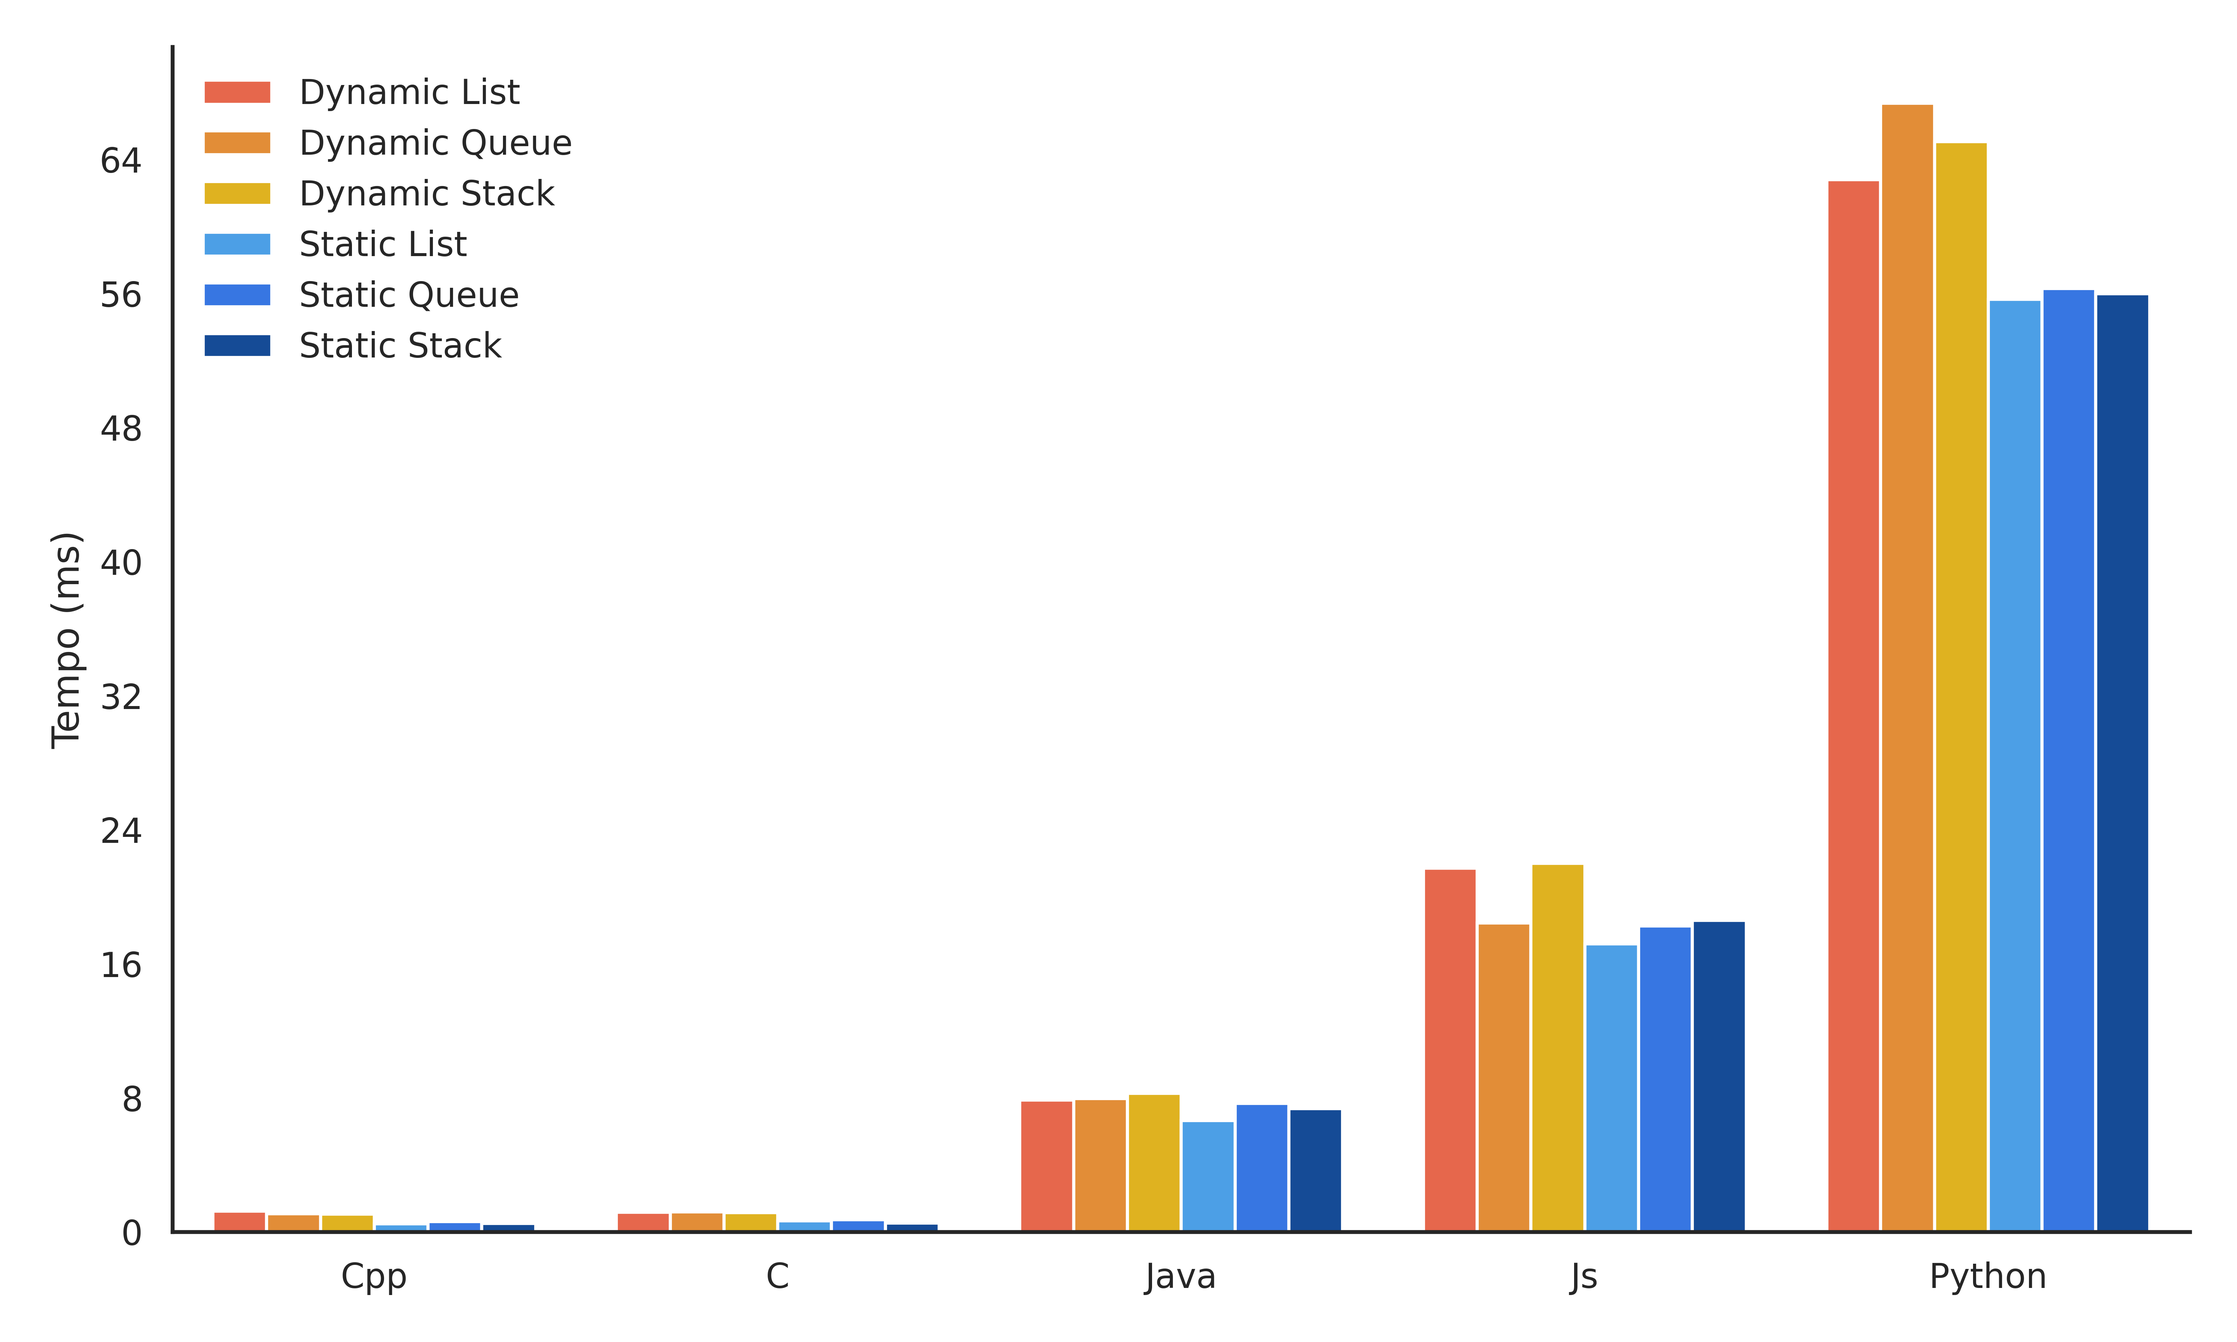
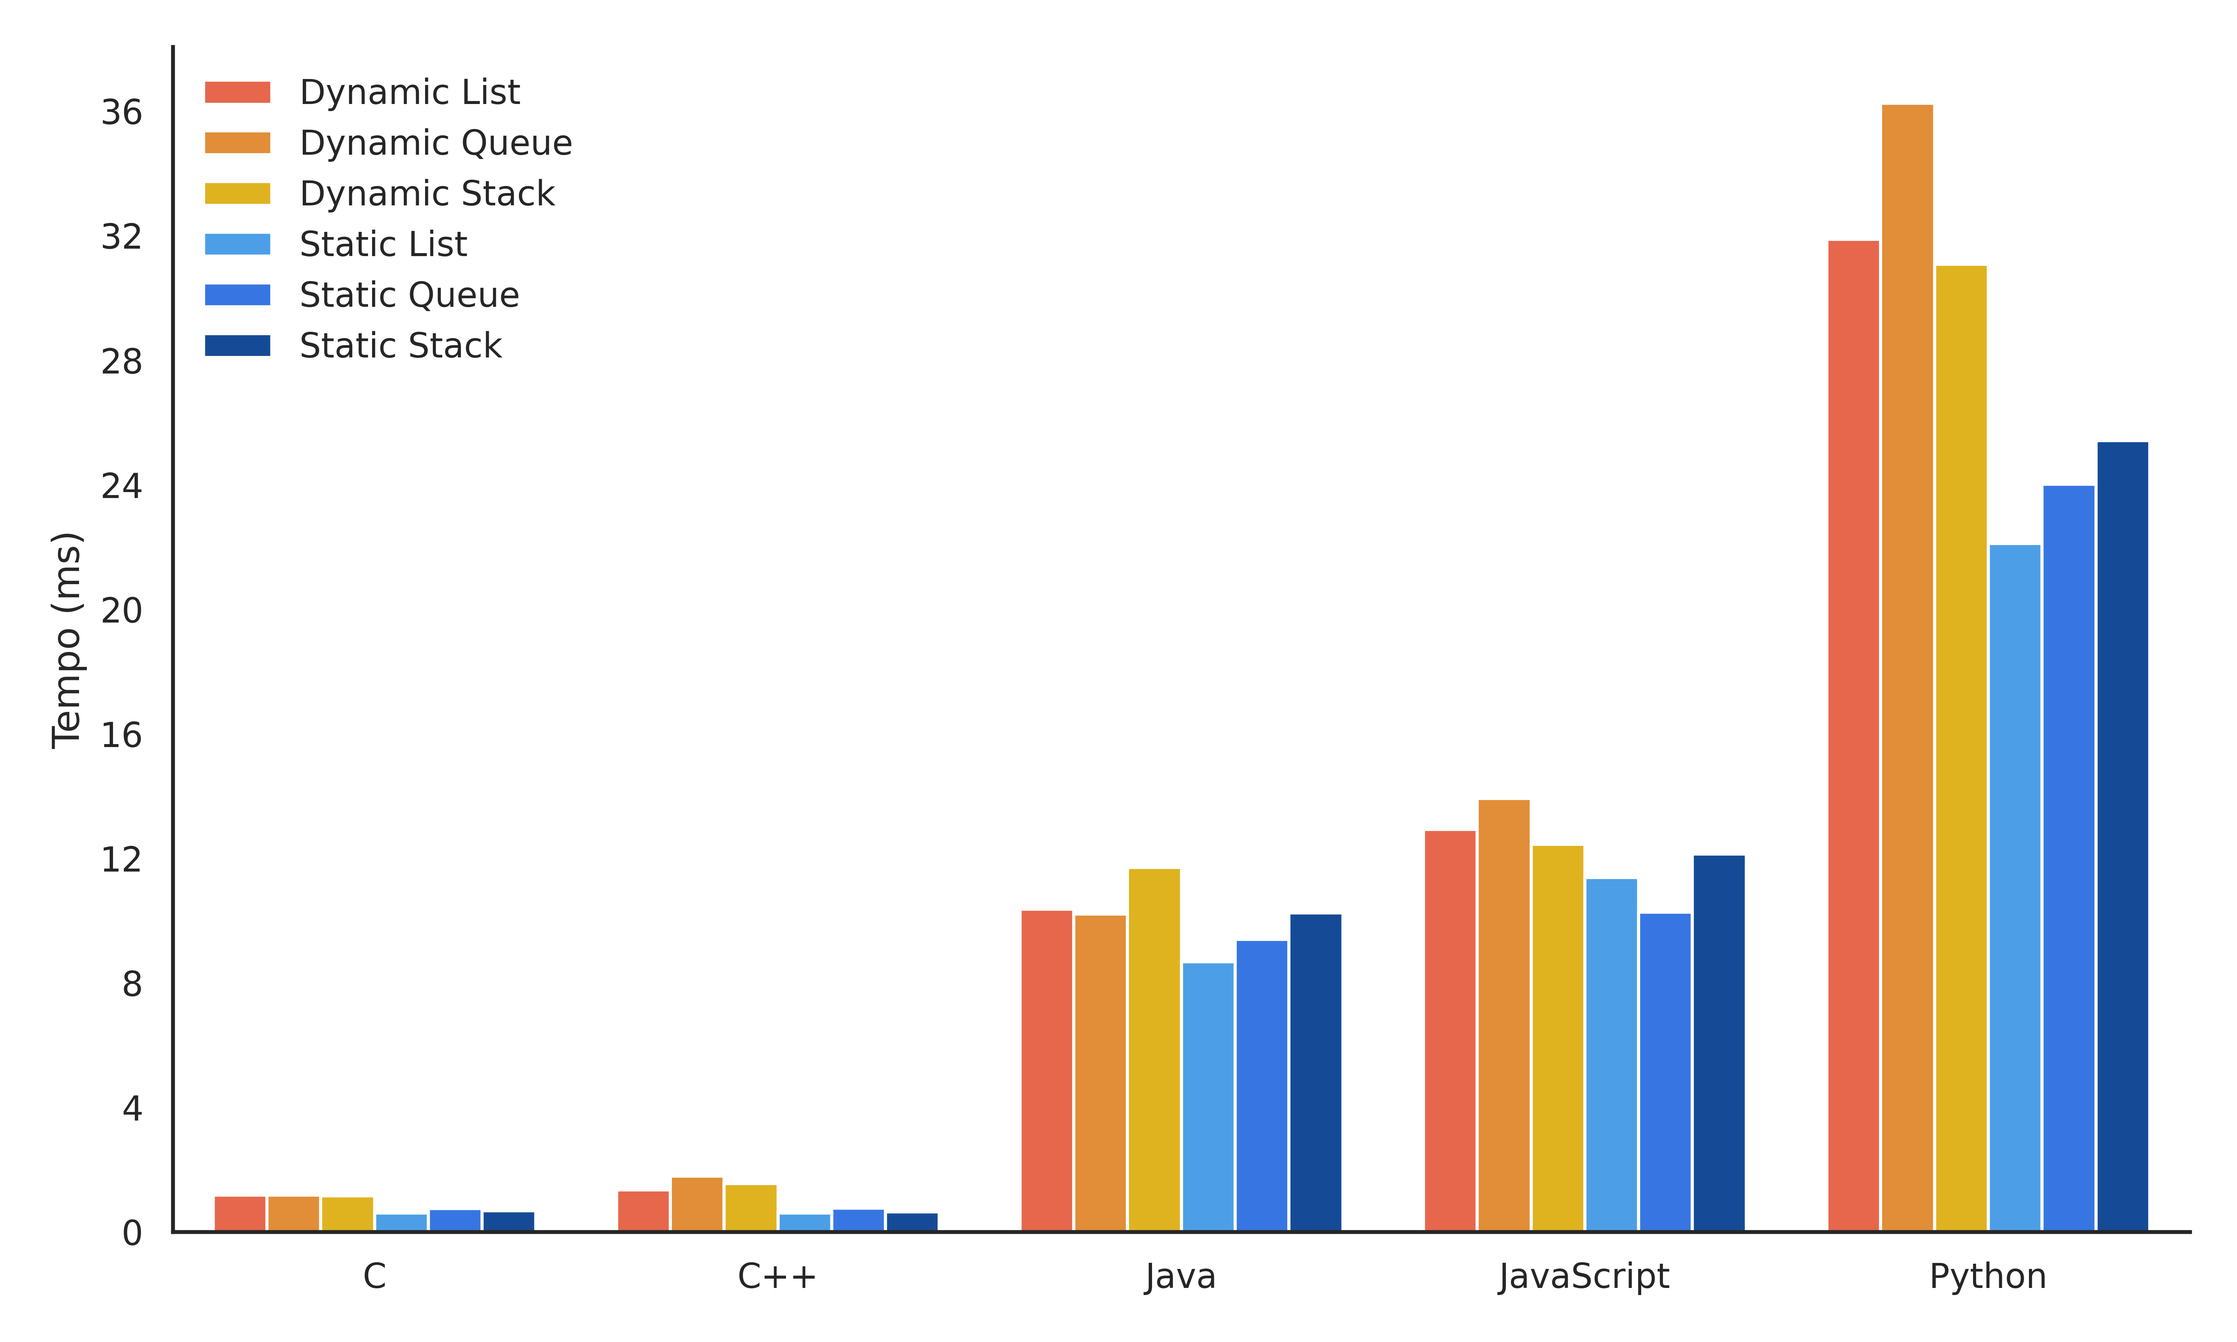
Corrigido graficos

diff --git a/Js/index.js b/Js/index.js
@@ -24,7 +24,7 @@ function lerTimestampsCSV(nomeArquivo) {
 
 async function main() {
   const inputPath = path.join('..', 'Samples', `sample_${tam}.csv`);
-  const outputDir = path.join('.', 'ordened', 'dynamic_queue');
+  const outputDir = path.join('.', 'ordened', 'dynamic_stack');
   const outputPath = path.join(outputDir, `sample_${tam}.csv`);
 
   if (!fs.existsSync(outputDir)) {
@@ -34,26 +34,26 @@ async function main() {
   // Lê CSV
   const timestamps = lerTimestampsCSV(inputPath);
 
-  const linkedQueue = new LinkedQueue();
+  const linkedStack = new LinkedStack();
 
   // Começa a contar tempo
   const start = process.hrtime.bigint();
 
   // Passa pra estrutura
   for (const t of timestamps) {
-    linkedQueue.enqueue(t);
+    linkedStack.push(t);
   }
 
   // Transforma em array normal
-  const normalList = linkedQueue.toList();
+  const normalList = linkedStack.toList();
 
   // Ordena
   timsort(normalList);
 
   // Limpa estrutura e copia ordenado
-  linkedQueue.clear();
+  linkedStack.clear();
   for (const t of normalList) {
-    linkedQueue.enqueue(t);
+    linkedStack.push(t);
   }
 
   // Termina de contar tempo
@@ -63,7 +63,7 @@ async function main() {
   console.log(`Tempo de execução: ${tempoExecucao.toFixed(6)} segundos`);
 
   // Salva resultado em CSV
-  linkedQueue.saveToCSV(outputPath);
+  linkedStack.saveToCSV(outputPath);
 }
 
 main().catch(console.error);

diff --git a/Analytics/plot.py b/Analytics/plot.py
@@ -322,48 +322,6 @@ def plotar_todas_memorias_aglomerado(df_memoria: pd.DataFrame):
     plt.savefig('memory/todos_volumes_memoria_aglomerado.png', dpi=600)
     plt.close()
 
-def plotar_tempo_static_list_10k(df_tempos: pd.DataFrame):
-    # Configurações globais
-    sns.set_theme(style="white")
-    plt.rcParams.update({'font.size': 14})
-
-    # Filtro apenas para volume = "10K"
-    df_filtro = df_tempos[df_tempos['Volume'] == "10K"].copy()
-
-    # Converter a coluna static_list para numérica e em ms
-    df_filtro['static_list'] = pd.to_numeric(df_filtro['static_list'], errors='coerce') * 1000
-
-    # Ordenar por tempo (caso queira que as barras fiquem em ordem crescente)
-    df_filtro = df_filtro.sort_values('static_list', ascending=False)
-
-    cores_map = {
-        'C': '#A6C8FF',       # Azul claro vibrante
-        'C++': '#6699FF',     # Azul médio claro
-        'Java': '#3366FF',    # Azul vibrante
-        'Python': '#0047AB',  # Azul forte
-        'JavaScript': '#002F6C' # Azul escuro profundo
-    }
-    # Plot
-    plt.figure(figsize=(8, 5))
-    ax = sns.barplot(
-        data=df_filtro,
-        hue='Linguagem',
-        x='Linguagem',
-        y='static_list',
-        palette=cores_map  # mesma cor que você usou antes para static_list
-    )
-
-    ax.set_xlabel('')
-    ax.set_ylabel('Tempo (ms)')
-    ax.yaxis.set_major_locator(ticker.MaxNLocator(nbins=10))
-
-    ax.spines['top'].set_visible(False)
-    ax.spines['right'].set_visible(False)
-
-    # Salvar imagem em alta resolução
-    plt.tight_layout()
-    plt.savefig('time/grafico_static_list_10K.png', dpi=600)
-    plt.close()
 
 def plotar_memoria_static_list_10k(df_consumo: pd.DataFrame):
     # Configurações globais
@@ -374,17 +332,17 @@ def plotar_memoria_static_list_10k(df_consumo: pd.DataFrame):
     df_filtro = df_consumo[df_consumo['Volume'] == "10K"].copy()
 
     # Converter a coluna static_list para numérica (é inteiro, não precisa multiplicar)
-    df_filtro['static_list'] = pd.to_numeric(df_filtro['static_list'], errors='coerce')
+    df_filtro['static_list'] = pd.to_numeric(df_filtro['static_list'], errors='coerce') / 1024.0
 
     # Ordenar para barras em ordem decrescente (de cima para baixo)
     df_filtro = df_filtro.sort_values('static_list', ascending=False)
 
     cores_map = {
-        'C': '#FFBA08',        # Amarelo-laranja quente (mais claro)
-        'C++': '#FFA41B',      # Laranja forte
-        'Java': '#F77F00',     # Laranja vibrante
-        'Python': '#F06543',   # Laranja avermelhado forte
-        'JavaScript': '#E63946' # Vermelho-alaranjado vivo (mais escuro)
+        'C': '#f1c40f',        
+        'C++': '#f75c03',      
+        'Java': '#00CC66',    
+        'Python': '#D90368',   
+        'JavaScript': '#2274a5' 
     }
     
     # Plot
@@ -398,7 +356,7 @@ def plotar_memoria_static_list_10k(df_consumo: pd.DataFrame):
     )
 
     ax.set_xlabel('')
-    ax.set_ylabel('Memória (bytes)')
+    ax.set_ylabel('Memória (MB)')
     ax.yaxis.set_major_locator(ticker.MaxNLocator(nbins=10))
 
     ax.spines['top'].set_visible(False)

diff --git a/Analytics/main.py b/Analytics/main.py
@@ -1,14 +1,21 @@
 from carrega_dados import carregar_csv_completo
 import plot
 
-df_tempos, df_consumo = carregar_csv_completo('dados.csv')
+df_tempos, df_consumo = carregar_csv_completo('dadosfull.csv')
 
-# Gerar gráficos separados para todos os volumes
-# volumes = df_tempos['Volume'].unique()
-# for volume in volumes:
-#     plot.plotar_tempo_por_estrutura_e_volume(df_tempos, volume)
-#     plot.plotar_memoria_por_estrutura_e_volume(df_consumo, volume)
+print(df_tempos)
+print(df_consumo)
 
-# # Gerar gráfico aglomerado com todos os volumes
-plot.plotar_tempo_static_list_10k(df_tempos)
-plot.plotar_memoria_static_list_10k(df_consumo)
+volumes = df_tempos['Volume'].unique()
+for volume in volumes:
+    plot.plotar_tempo_por_estrutura_e_volume(df_tempos, volume)
+    plot.plotar_memoria_por_estrutura_e_volume(df_consumo, volume)
+
+plot.plotar_todos_volumes_aglomerado(df_tempos)
+plot.plotar_todas_memorias_aglomerado(df_consumo)
+
+# Gerar gráfico aglomerado com todos os volumes
+
+
+# plot.plotar_tempo_static_list_10k(df_tempos)
+# plot.plotar_memoria_static_list_10k(df_consumo)

diff --git a/Cpp/src/main.cpp b/Cpp/src/main.cpp
@@ -7,12 +7,12 @@
 #include <iomanip>
 
 #define INPUT_FILE "../Samples/sample_1000000.csv"
-#define OUTPUT_FILE "./ordened/dynamic_queue/sample_1000000.csv"
+#define OUTPUT_FILE "./ordened/static_list/sample_1000000.csv"
 #define TAMANHO 1000000
 
 int main()
 {
-    DynamicQueue fila;
+    StaticList lista;
 
     std::vector<int> arr;
     if (!FileReader::carregarCSV(INPUT_FILE, arr, TAMANHO))
@@ -25,15 +25,15 @@ int main()
 
     for (int i = 0; i < TAMANHO; i++)
     {
-        fila.enfileirar(Registro{arr[i]});
+        lista.inserirFinal(Registro{arr[i]});
     }
 
-    ordenarDynamicQueue(&fila);
+    ordenarStaticList(&lista);
 
     auto stop = std::chrono::high_resolution_clock::now();
     auto duration = std::chrono::duration_cast<std::chrono::duration<double>>(stop - start);
     std::cout << "Tempo de execução: " << std::fixed << std::setprecision(6) << duration.count() << " segundos" << std::endl;
 
-    fila.salvarEmArquivo(OUTPUT_FILE);
+    lista.salvarEmArquivo(OUTPUT_FILE);
     return 0;
 }

diff --git a/PreProcess/pre_ordeened.py b/PreProcess/pre_ordeened.py
@@ -1,0 +1,27 @@
+import random
+
+# Tamanhos desejados
+samples = [100, 1000, 10000, 100000, 1000000]
+
+# Gera lista parcialmente ordenada com % de desordem
+def gerar_lista_parcialmente_ordenada(n, desordem_percent=1):
+    lista = list(range(n))
+    qtd_trocas = max(1, int(n * desordem_percent / 100))
+    
+    for _ in range(qtd_trocas):
+        i = random.randint(0, n - 2)
+        # Troca elementos adjacentes para gerar pequenas quebras locais
+        lista[i], lista[i + 1] = lista[i + 1], lista[i]
+    
+    return lista
+
+# Gerar e salvar os samples
+for n in samples:
+    lista = gerar_lista_parcialmente_ordenada(n)
+
+    # Salva como .txt (um número por linha)
+    with open(f'sample_parcial_{n}.csv', 'w') as f:
+        for valor in lista:
+            f.write(f"{valor}\n")
+    
+    print(f'Sample parcialmente ordenado ({n} elementos) salvo em sample_parcial_{n}.csv')

diff --git a/Analytics/plot_diferent_inputs.py b/Analytics/plot_diferent_inputs.py
@@ -8,8 +8,7 @@ dados = pd.DataFrame({
     "Tempo (s)": (
         [0.000236, 0.002657, 0.055648, 0.554700, 5.223232] +
         [0.000423, 0.004692, 0.062784, 0.650361, 6.938603] +
-        [0.000106, 0.001450, 0.026315, 
-         , 3.297343] +
+        [0.000106, 0.001450, 0.026315, 0.250000, 3.297343] +
         [0.000188, 0.003278, 0.034563, 0.370120, 4.715385]
     ),
     "Cenário": (

diff --git a/Analytics/nlogn.py b/Analytics/nlogn.py
@@ -4,7 +4,7 @@ import seaborn as sns
 
 # Dados
 n = np.array([100, 1_000, 10_000, 100_000, 1_000_000])
-tempo = np.array([0.000004, 0.000055, 0.000654, 0.006817, 0.082311])
+tempo = np.array([0.000006, 0.000060, 0.000614, 0.008886, 0.063661])
 
 # Calculando n * log2(n)
 nlogn = n * np.log2(n)

diff --git a/ResultsFull/Cpp.MD b/ResultsFull/Cpp.MD
@@ -27,11 +27,11 @@ Este documento apresenta os resultados obtidos durante a execução do método p
 ### **dynamic_stack**
 | Volume de Dados | Tempo Total (s) | Memória Máxima (kbytes) |
 |-----------------|-----------------|------------------------|
-| 100             | 00000000        | 00000                  |
-| 1K              | 00000000        | 00000                  |
-| 10K             | 00000000        | 00000                  |
-| 100K            | 00000000        | 00000                  |
-| 1M              | 00000000        | 00000                  |
+| 100             | 0.000012         | 3814                   |
+| 1K              | 0.000095         | 3872                   |
+| 10K             | 0.001551         | 4224                   |
+| 100K            | 0.013562         | 7296                   |
+| 1M              | 0.125568         | 42355                   |
 
 
 ## Estruturas Staticas
@@ -39,28 +39,28 @@ Este documento apresenta os resultados obtidos durante a execução do método p
 ### **static_list**
 | Volume de Dados | Tempo Total (s) | Memória Máxima (kbytes) |
 |-----------------|-----------------|------------------------|
-| 100             | 0.000005         | 7779                   |
-| 1K              | 0.000053         | 7776                   |
-| 10K             | 0.000609         | 7875                   |
-| 100K            | 0.006382         | 8576                   |
-| 1M              | 0.068767         | 18969                   |
+| 100             | 0.000005         | 3840                   |
+| 1K              | 0.000053         | 3851                   |
+| 10K             | 0.000609         | 3968                   |
+| 100K            | 0.006382         | 4992                   |
+| 1M              | 0.068767         | 18944                   |
 
 
 ### **static_queue**
 | Volume de Dados | Tempo Total (s) | Memória Máxima (kbytes) |
 |-----------------|-----------------|------------------------|
-| 100             | 0.000006         | 7795                   |
-| 1K              | 0.000067         | 7780                   |
-| 10K             | 0.000760         | 7923                   |
-| 100K            | 0.009930         | 8576                   |
-| 1M              | 0.077471         | 18953                   |
+| 100             | 0.000006         | 3840                   |
+| 1K              | 0.000067         | 3851                   |
+| 10K             | 0.000760         | 3968                   |
+| 100K            | 0.009930         | 4992                   |
+| 1M              | 0.077471         | 18944                   |
 
 
 ### **static_stack**
 | Volume de Dados | Tempo Total (s) | Memória Máxima (kbytes) |
 |-----------------|-----------------|------------------------|
-| 100             | 0.000006         | 7780                   |
-| 1K              | 0.000091         | 7757                   |
-| 10K             | 0.000649         | 7896                   |
-| 100K            | 0.007291         | 8576                   |
-| 1M              | 0.067372         | 18947                   |
+| 100             | 0.000006         | 3840                   |
+| 1K              | 0.000091         | 3851                   |
+| 10K             | 0.000649         | 3968                   |
+| 100K            | 0.007291         | 4992                   |
+| 1M              | 0.067372         | 18944                   |

diff --git a/ResultsFull/Js.MD b/ResultsFull/Js.MD
@@ -27,11 +27,11 @@ Este documento apresenta os resultados obtidos durante a execução do método p
 ### **dynamic_stack**
 | Volume de Dados | Tempo Total (s) | Memória Máxima (kbytes) |
 |-----------------|-----------------|------------------------|
-| 100             | 00000000        | 00000                  |
-| 1K              | 00000000        | 00000                  |
-| 10K             | 00000000        | 00000                  |
-| 100K            | 00000000        | 00000                  |
-| 1M              | 00000000        | 00000                  |
+| 100             | 0.000860         | 40192                   |
+| 1K              | 0.003411         | 44876                   |
+| 10K             | 0.012453         | 49248                   |
+| 100K            | 0.062395         | 93248                   |
+| 1M              | 0.626259         | 215037                   |
 
 ## Estruturas Staticas
 
@@ -49,13 +49,13 @@ Este documento apresenta os resultados obtidos durante a execução do método p
 | Volume de Dados | Tempo Total (s) | Memória Máxima (kbytes) |
 |-----------------|-----------------|------------------------|
 | 100             | 0.000765         | 40166                   |
-| 1K              | 0.004085         | 44153                   |
+| 1K              | 0.003285         | 44153                   |
 | 10K             | 0.010275         | 48877                   |
 | 100K            | 0.051220         | 79064                   |
 | 1M              | 0.390635         | 194914                   |
 
 
-### **static_queue**
+### **static_stack**
 | Volume de Dados | Tempo Total (s) | Memória Máxima (kbytes) |
 |-----------------|-----------------|------------------------|
 | 100             | 0.001047         | 40150                   |

diff --git a/ResultsFull/PyOrdener.MD b/ResultsFull/PyOrdener.MD
@@ -1,0 +1,21 @@
+# Resultados de Performance
+
+Este documento apresenta os resultados obtidos durante a execução do método para diferentes volumes de dados e diferentes estruturas. A medição foi realizada utilizando o comando `/usr/bin/time -v`.
+
+### **dynamic_list**
+| Volume de Dados | Tempo Total (s) | Memória Máxima (kbytes) |
+|-----------------|-----------------|------------------------|
+| 100             | 0.000380          | 11008                   |
+| 1K              | 0.004549         | 11136                   |
+| 10K             | 0.031878         | 12416                   |
+| 100K            | 0.343921         | 24309                  |
+| 1M              | 5.177725         | 143981                  |
+
+### **static_list**
+| Volume de Dados | Tempo Total (s) | Memória Máxima (kbytes) |
+|-----------------|-----------------|------------------------|
+| 100             | 0.000144         | 10912                   |
+| 1K              | 0.001911         | 11136                   |
+| 10K             | 0.022107         | 12288                   |
+| 100K            | 0.291499         | 24933                   |
+| 1M              | 3.329111         | 155066                   |

diff --git a/ResultsFull/Py.MD b/ResultsFull/Py.MD
@@ -17,9 +17,9 @@ Este documento apresenta os resultados obtidos durante a execução do método p
 | Volume de Dados | Tempo Total (s) | Memória Máxima (kbytes) |
 |-----------------|-----------------|------------------------|
 | 100             | 0.000329         | 10995                   |
-| 1K              | 0.003988         | 11136                   |
+| 1K              | 0.004388         | 11136                   |
 | 10K             | 0.036245         | 12282                   |
-| 100K            | 0,586000         | 24280                   |
+| 100K            | 0,366000         | 24280                   |
 | 1M              | 5,006197         | 144068                   |
 
 

diff --git a/ResultsFull/Java.MD b/ResultsFull/Java.MD
@@ -17,7 +17,7 @@ Este documento apresenta os resultados obtidos durante a execução do método p
 | Volume de Dados | Tempo Total (s) | Memória Máxima (kbytes) |
 |-----------------|-----------------|------------------------|
 | 100             | 0.001250         | 116689                   |
-| 1K              | 0.004618         | 116884                   |
+| 1K              | 0.003418         | 116884                   |
 | 10K             | 0.010210         | 116823                   |
 | 100K            | 0.041024         | 131343                   |
 | 1M              | 0.361962         | 237015                   |
